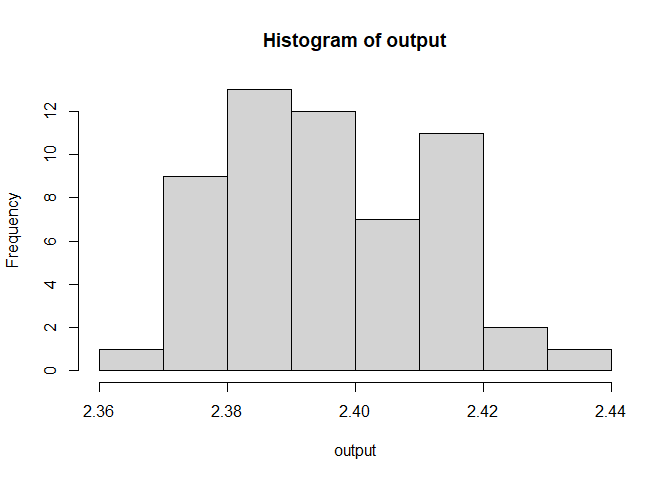
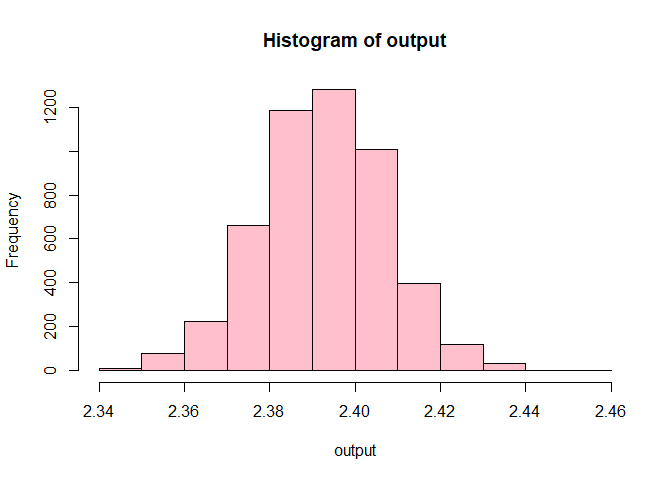
simulation new

diff --git a/simulation.md b/simulation.md
@@ -123,7 +123,7 @@ health <- clean_data$health
 n <-nrow(clean_data)
 boot<- sample(n, replace = TRUE)
 health_boot <- health[boot]
-ratio_boot <- median(health_boot)
+ratio_boot <- mean(health_boot, na.rm = T)
 ```
 
 ``` r
@@ -131,13 +131,19 @@ boot_ratio <- function(data){
 n <- nrow(data)
 boot <- sample(1:n, replace=TRUE)
 health_boot <- data$health[boot]
-mean(health_boot)}
+mean(health_boot, na.rm = T)}
 ```
 
 ``` r
-n_sims <- 1000
+n_sims <- 5000
 output <- replicate(n_sims, boot_ratio(data=clean_data))
-hist(output)
+hist(output, col = "pink")
 ```
 
 ![](simulation_files/figure-gfm/unnamed-chunk-10-1.png)<!-- -->
+
+``` r
+print(sd(output))
+```
+
+    ## [1] 0.014769
